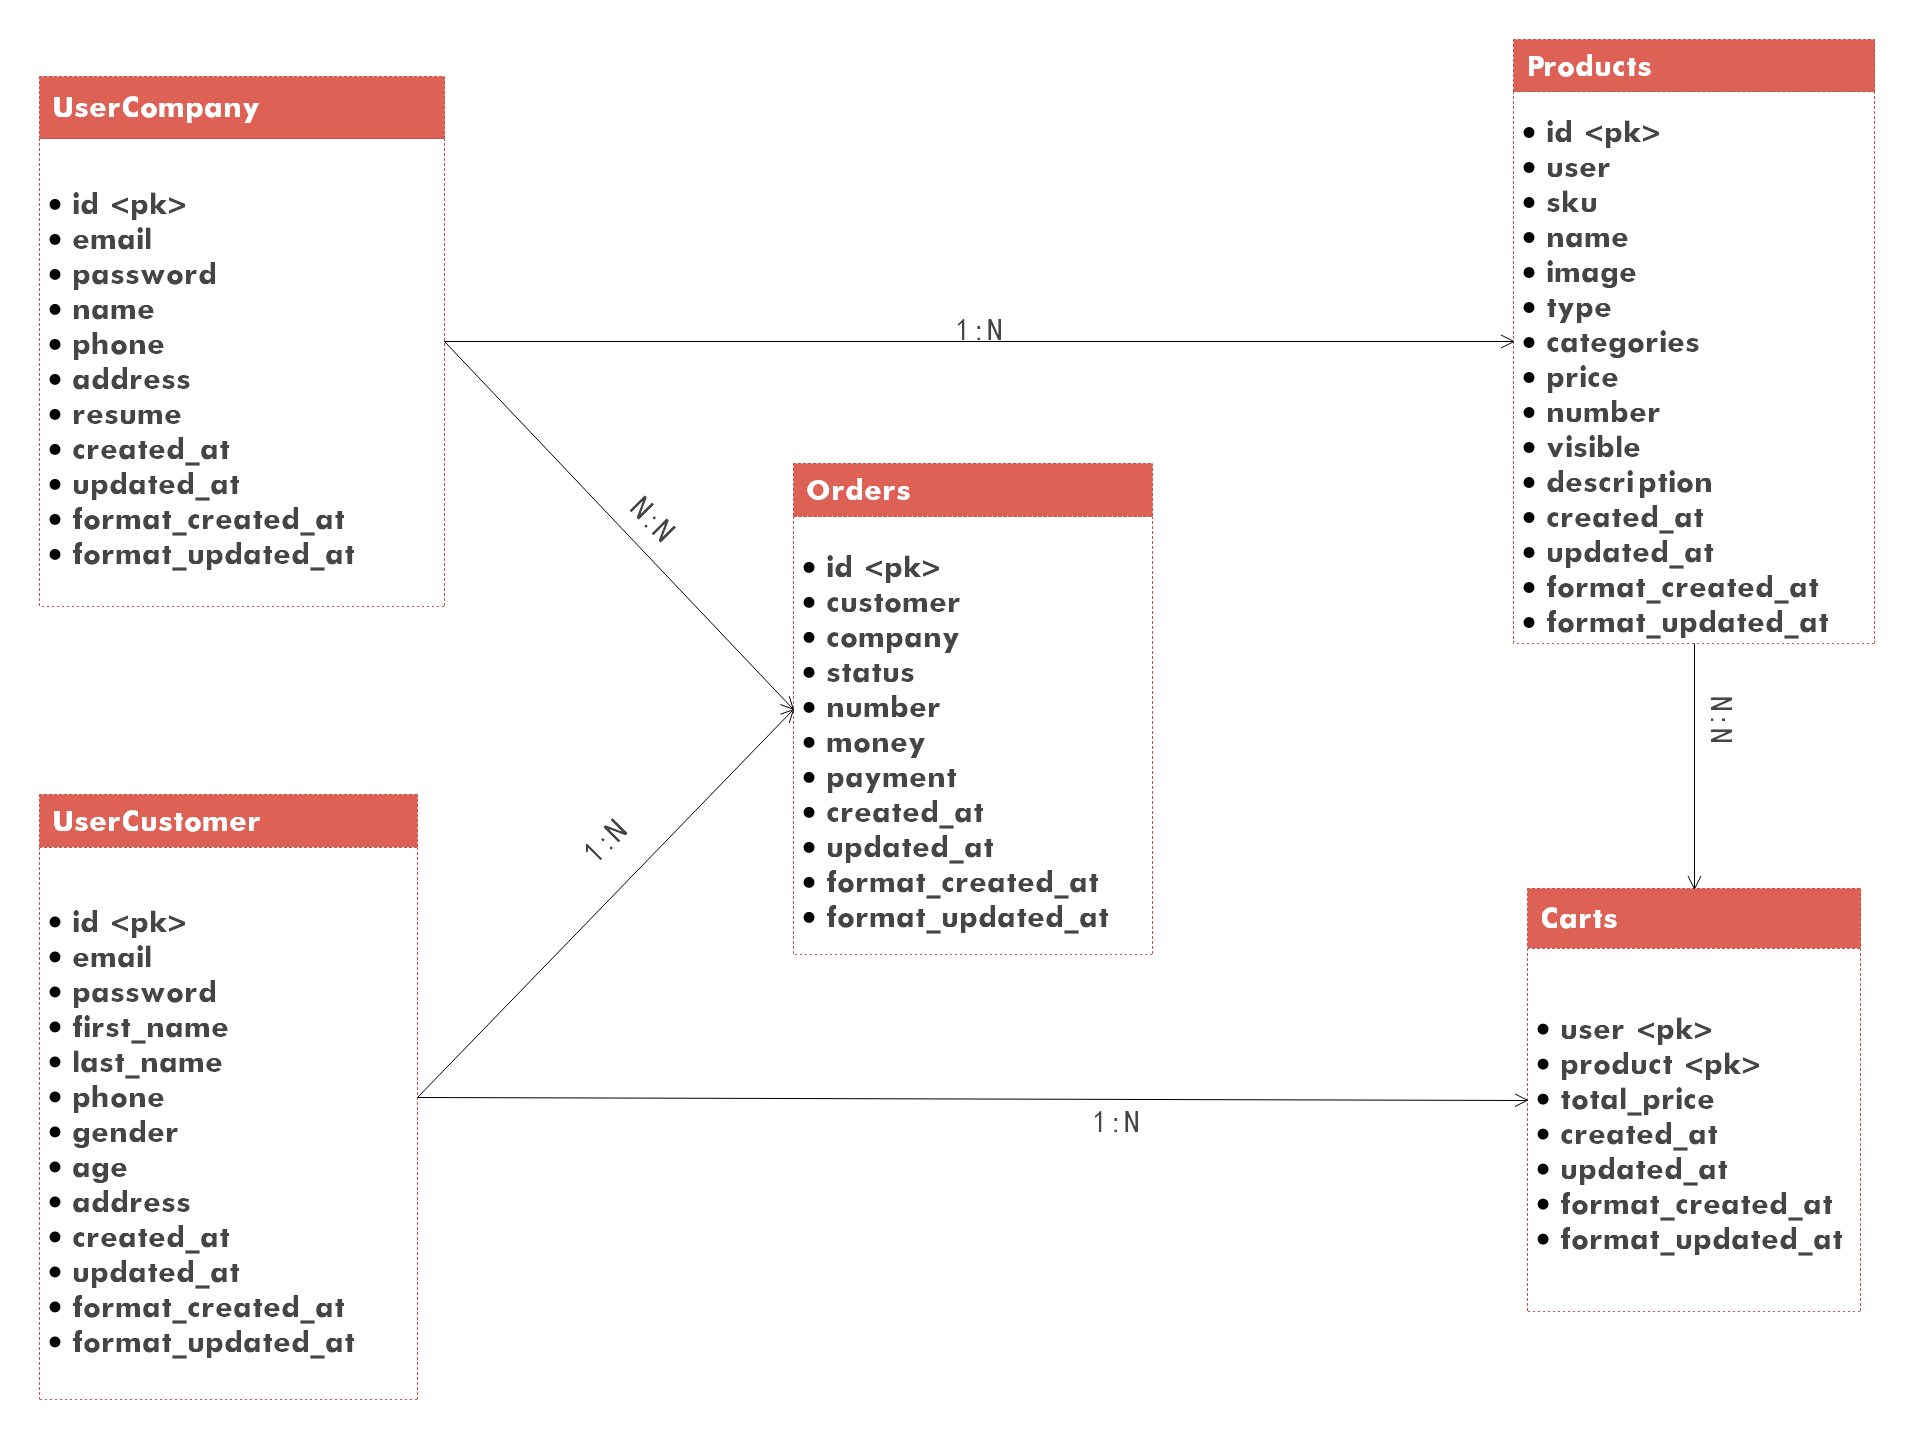
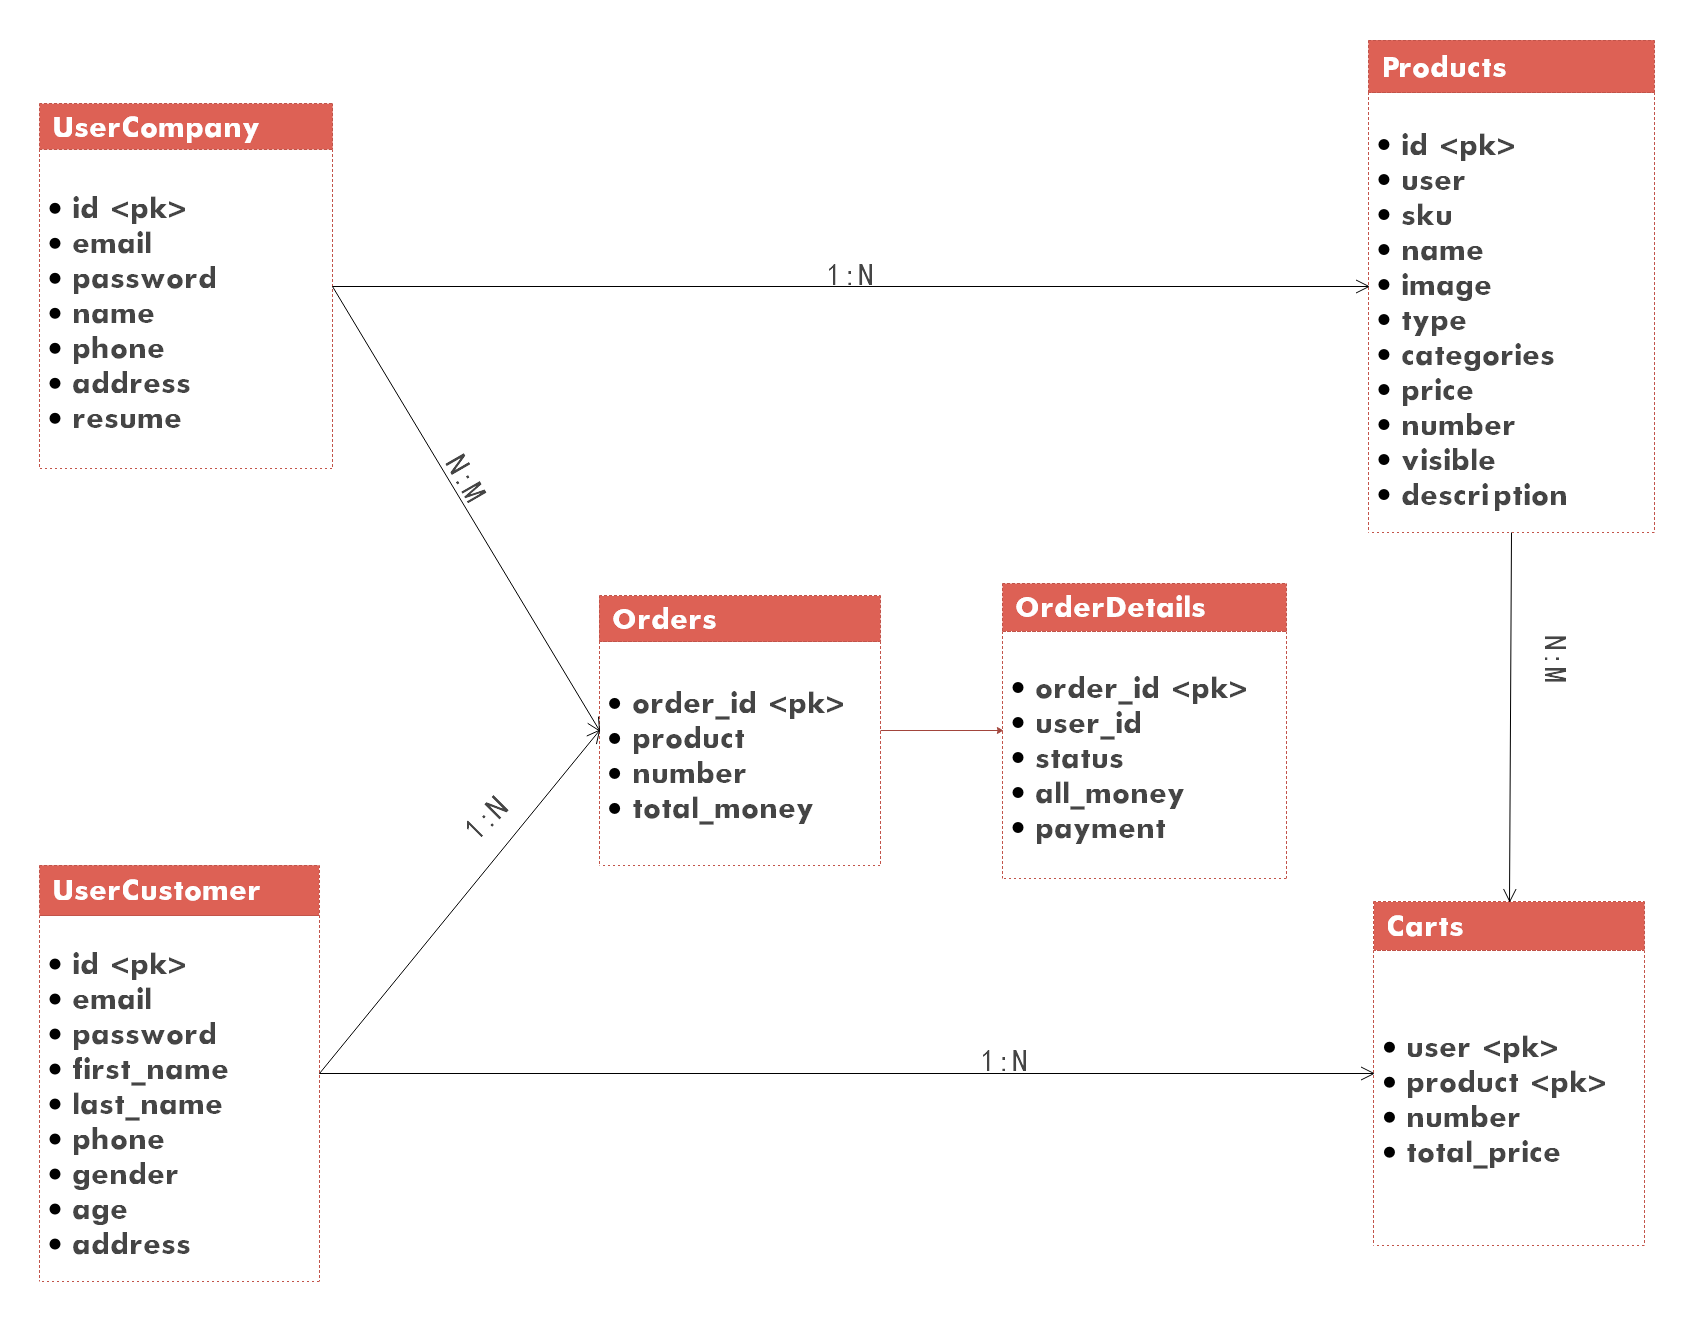
models over don't change again

diff --git a/tss/apps/users/models.py b/tss/apps/users/models.py
@@ -1,6 +1,6 @@
 from enum import IntEnum
-
 from django.db.migrations.utils import COMPILED_REGEX_TYPE
+from uvicorn.lifespan import on
 
 from apps.utils.base_model import BaseModel
 from django.contrib.auth.models import User
@@ -72,9 +72,6 @@ class UserCompany(models.Model):
     address = models.CharField(max_length=200,default="unkown adress")
     resume = models.TextField(max_length=200,default="this is resume")
 
-    def __str__(self):
-        return "%s %s" % (self.first_name, self.last_name)
-
     class Meta:
         db_table = 'user_company'
         verbose_name = 'user_company'
@@ -82,7 +79,7 @@ class UserCompany(models.Model):
 
 class Products(models.Model):
     user = models.ForeignKey(UserCompany,related_name='company_products',on_delete=models.CASCADE)
-    SKU = models.CharField(max_length=200,unique=True,default="unkown sku")
+    SKU = models.CharField(max_length=200,default="unkown sku")
     name = models.CharField(max_length=200)
     image = models.CharField(max_length=200,default="unkown image")
     type  = models.SmallIntegerField(choices=ProductType.choices(),default=0)
@@ -94,23 +91,38 @@ class Products(models.Model):
 
     class Meta:
         db_table = 'products'
+        verbose_name = 'products'
+        verbose_name_plural = 'products'
 
 class Carts(models.Model):
     user = models.ForeignKey(UserCustomer,related_name='customer_carts',on_delete=models.CASCADE)
     product = models.ForeignKey(Products, related_name='products_carts',on_delete=models.CASCADE)
+    number = models.CharField(max_length=200,default=1)
     total_price = models.CharField(max_length=200,default=0)
 
     class Meta:
         db_table = 'carts'
+        verbose_name = 'carts'
+        verbose_name_plural = 'carts'
 
 class Orders(models.Model):
-    customer = models.ForeignKey(UserCustomer,related_name='customer_orders',on_delete=models.CASCADE)
-    company = models.ForeignKey(UserCompany,related_name='company_orders',on_delete=models.CASCADE)
-    status = models.SmallIntegerField(choices=OrderStatus.choices(),default=0)
+    product = models.ForeignKey(Products,related_name='order_product',on_delete=models.CASCADE)
     number = models.CharField(max_length=200,default=1)
-    money = models.CharField(max_length=200,default=1)
-    payment = models.SmallIntegerField(choices=OrderPayment.choices(),default=0)
+    total_money = models.CharField(max_length=200,default=1)
 
     class Meta:
         db_table = 'orders'
+        verbose_name = 'orders'
+        verbose_name_plural = 'orders'
 
+class OrderDtails(models.Model):
+    order = models.ForeignKey(Orders,related_name='order_dtails',on_delete=models.CASCADE)
+    user = models.ForeignKey(UserCustomer,related_name='order_user',on_delete=models.CASCADE)
+    status = models.SmallIntegerField(choices=OrderStatus.choices(),default=0)
+    all_money = models.CharField(max_length=200,default=1)
+    payment = models.SmallIntegerField(choices=OrderPayment.choices(),default=0)
+
+    class Meta:
+        db_table = 'order_details'
+        verbose_name = 'order_details'
+        verbose_name_plural = 'order_details'

diff --git a/tss/apps/users/admin.py b/tss/apps/users/admin.py
@@ -3,7 +3,7 @@ from django.contrib import admin
 # Register your models here.
 from django.contrib.auth.models import User, Group
 from django.contrib import admin
-from apps.users.models import UserCustomer,UserCompany
+from apps.users.models import UserCustomer,UserCompany,Products,Carts,Orders,OrderDtails
 
 admin.site.unregister(User)
 admin.site.unregister(Group)
@@ -11,4 +11,29 @@ admin.site.unregister(Group)
 @admin.register(UserCustomer)
 class UserCustomerAdmin(admin.ModelAdmin):
     exclude = ['created_at', 'updated_at'] #展示在详情页，exclude是排除
-    list_display = ['id','first_name','last_name','email','gender','age'] #列表页
+    list_display = ['id','first_name','last_name','email','phone','age','gender','address'] #列表页
+
+@admin.register(UserCompany)
+class UserCompanyAdmin(admin.ModelAdmin):
+    exclude = ['created_at', 'updated_at'] #展示在详情页，exclude是排除
+    list_display = ['id','name','email','phone','address','resume'] #列表页
+
+@admin.register(Products)
+class ProductAdmin(admin.ModelAdmin):
+    exclude = ['created_at', 'updated_at'] #展示在详情页，exclude是排除
+    list_display = ['id','name','price','number','user','SKU','image','type','categories','visible','description'] #列表页
+
+@admin.register(Carts)
+class CartsAdmin(admin.ModelAdmin):
+    exclude = ['created_at', 'updated_at'] #展示在详情页，exclude是排除
+    list_display = ['id','product','number','total_price','user'] #列表页
+
+@admin.register(Orders)
+class OrdersAdmin(admin.ModelAdmin):
+    exclude = ['created_at', 'updated_at'] #展示在详情页，exclude是排除
+    list_display = ['id','product','number','total_money'] #列表页
+
+@admin.register(OrderDtails)
+class OrderDtailsAdmin(admin.ModelAdmin):
+    exclude = ['created_at', 'updated_at'] #展示在详情页，exclude是排除
+    list_display = ['id','order','user','status','all_money','payment'] #列表页
